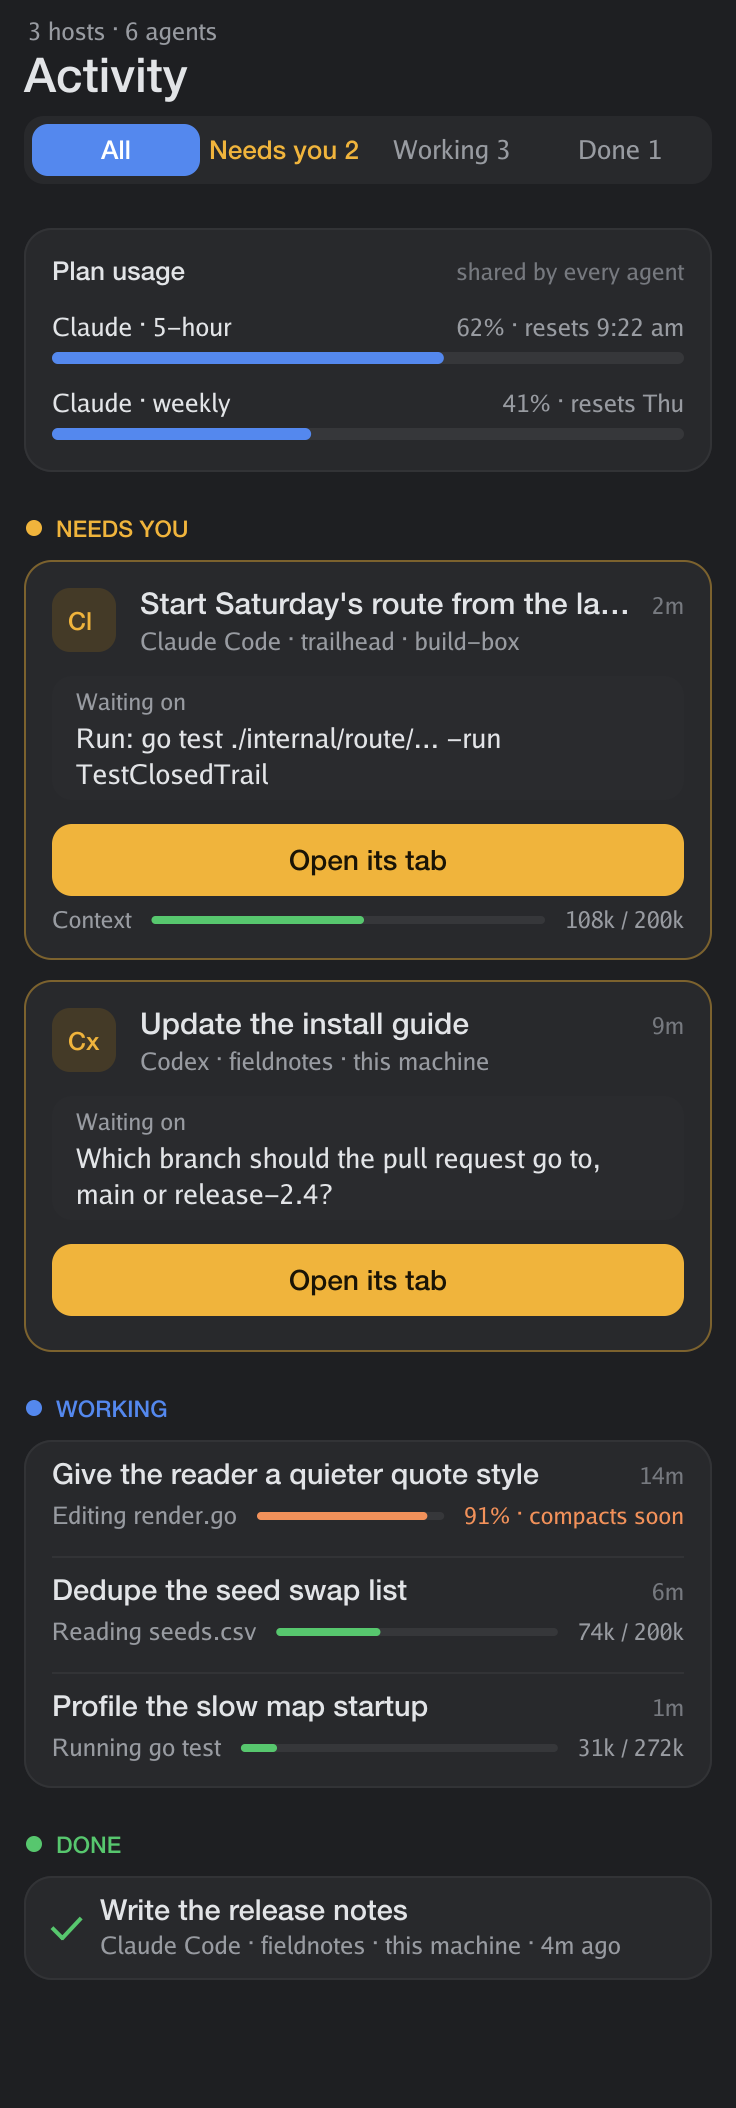
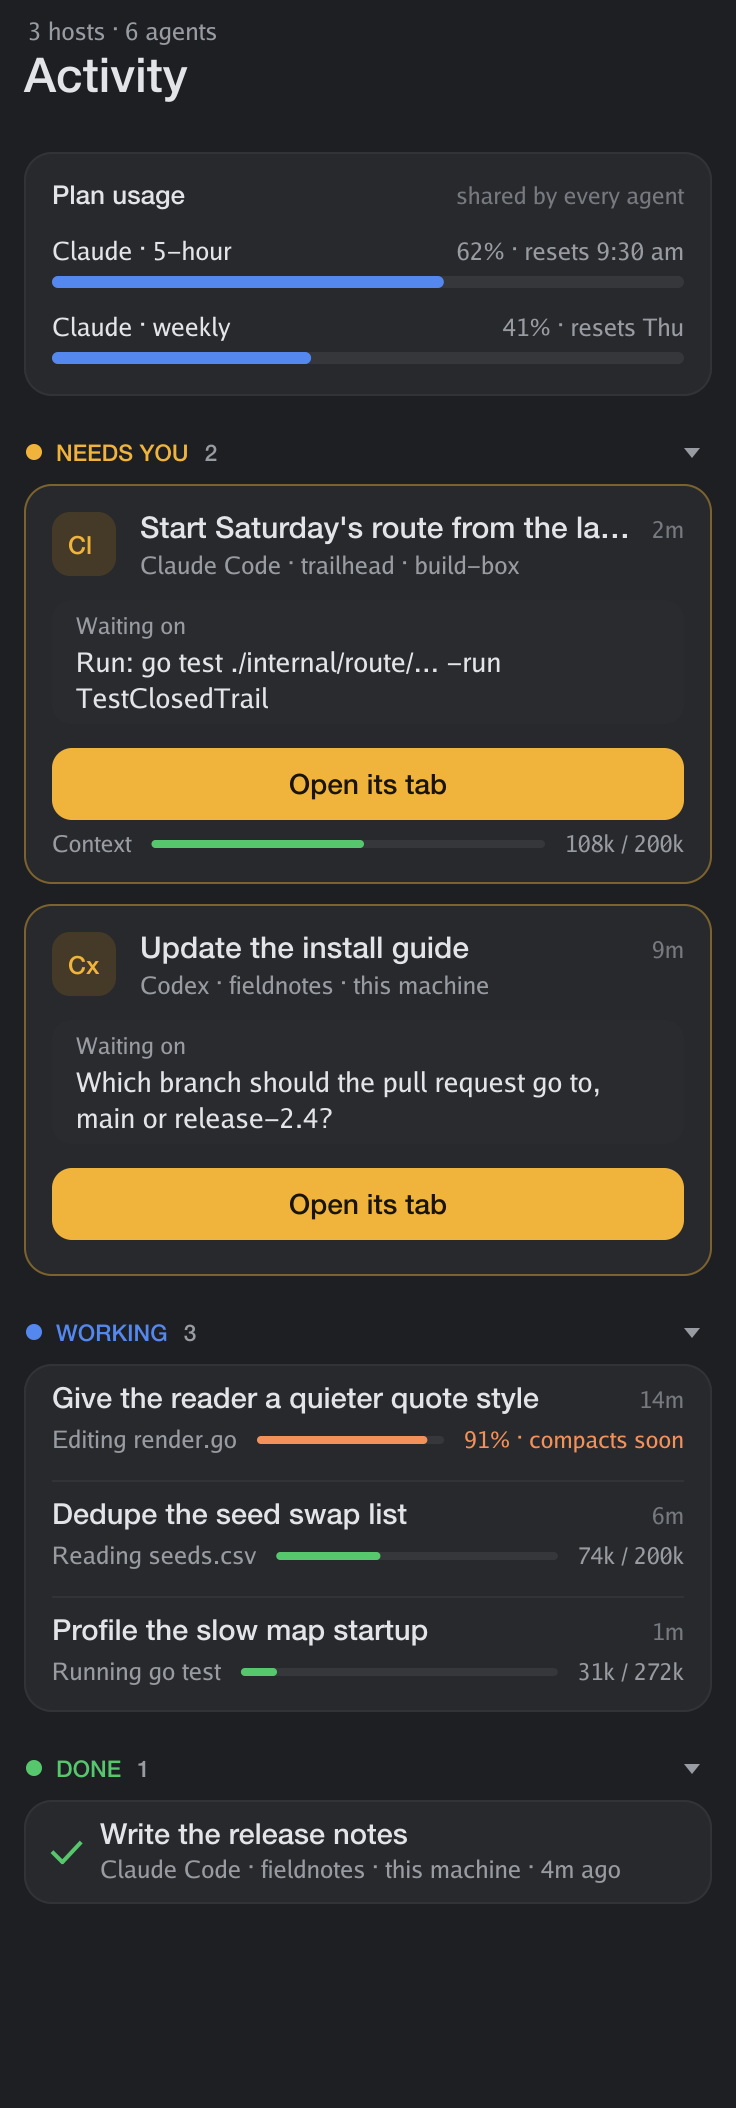
In a narrow pane, the sections take the tabs' place, and fold from their headings
Claude-Session: https://claude.ai/code/session_01VytZudmu48gYaxKF5KDtzx

diff --git a/activity.go b/activity.go
@@ -23,8 +23,7 @@ const (
 	avWide    = 640.0 // from this pane width, two columns
 	avColGap  = 20.0
 	avTabH    = 34.0  // a row of tabs
-	avTabGrid = 420.0 // under this header width, the tabs go two by two
-	avTabList = 260.0 // and under this, one per row
+	avStacked = 420.0 // under this column width the tabs don't read: the sections take their place
 	avPad     = 14.0  // inside a card
 	avGap     = 10.0  // between cards
 	avBtnH    = 36.0
@@ -44,7 +43,7 @@ const (
 // avHit is a place on the pane that does something when clicked.
 type avHit struct {
 	x0, y0, x1, y1 float64
-	action         string // tab:N or open:KEY
+	action         string // tab:N, fold:N or open:KEY
 }
 
 type activityView struct {
@@ -56,6 +55,16 @@ type activityView struct {
 	hits    []avHit
 	msg     string
 	hosts   int // Rex servers with agents on them
+	folded  map[avTab]bool
+	stacked bool // no tabs: the pane's too narrow for them
+}
+
+// shownTab is the tab in effect: all of them when the tabs are hidden.
+func (v *activityView) shownTab() avTab {
+	if v.stacked {
+		return tabAll
+	}
+	return v.tab
 }
 
 func (v *activityView) sections() (needs, working, done []Agent) {
@@ -118,6 +127,13 @@ func runActivity(args []string) error {
 	act := func(action string) {
 		kind, id, _ := strings.Cut(action, ":")
 		switch kind {
+		case "fold":
+			var n int
+			fmt.Sscan(id, &n)
+			if v.folded == nil {
+				v.folded = map[avTab]bool{}
+			}
+			v.folded[avTab(n)] = !v.folded[avTab(n)]
 		case "tab":
 			var n int
 			fmt.Sscan(id, &n)
@@ -225,7 +241,7 @@ func runActivity(args []string) error {
 
 func (v *activityView) drawKey() string {
 	var b strings.Builder
-	fmt.Fprint(&b, v.tab, v.scroll, v.msg, v.hasPlan, v.plan.Updated.Unix())
+	fmt.Fprint(&b, v.tab, v.folded, v.scroll, v.msg, v.hasPlan, v.plan.Updated.Unix())
 	for _, a := range v.agents {
 		fmt.Fprint(&b, a.key(), a.State, a.Msg, a.Title, a.Since.Unix(), a.Ctx.Tokens, ";")
 	}
@@ -317,7 +333,8 @@ type avColumn struct {
 // columns lays the list out for the pane's width: two columns when it's
 // wide and showing everything, else one.
 func (v *activityView) columns(w float64) (cols []avColumn, x0, x1 float64) {
-	if v.tab == tabAll && w >= avWide {
+	tab := v.shownTab()
+	if tab == tabAll && w >= avWide {
 		colW := min((w-32-avColGap)/2, avColMax)
 		x0 = (w - 2*colW - avColGap) / 2
 		x1 = w - x0
@@ -330,7 +347,7 @@ func (v *activityView) columns(w float64) (cols []avColumn, x0, x1 float64) {
 	x0 = (w - colW) / 2
 	x1 = x0 + colW
 	one := avColumn{x0: x0, x1: x1}
-	switch v.tab {
+	switch tab {
 	case tabAll:
 		one.plan, one.needs, one.work, one.fresh = true, true, true, true
 	case tabNeeds:
@@ -343,29 +360,21 @@ func (v *activityView) columns(w float64) (cols []avColumn, x0, x1 float64) {
 	return []avColumn{one}, x0, x1
 }
 
-// tabGrid is how the tabs sit for a header x0..x1 wide: tabs per row, and rows.
-func tabGrid(width float64) (perRow, rows int) {
-	switch {
-	case width < avTabList:
-		return 1, 4
-	case width < avTabGrid:
-		return 2, 2
+// headHeight is the pinned title, and the tabs when they show.
+func (v *activityView) headHeight() float64 {
+	if v.stacked {
+		return 66
 	}
-	return 4, 1
-}
-
-// headHeight is the pinned title and tabs, for a header that wide.
-func headHeight(width float64) float64 {
-	_, rows := tabGrid(width)
-	return 58 + float64(rows)*avTabH + 12
+	return 104
 }
 
 func (v *activityView) draw(r *renderer, img *image.RGBA, w, h float64) {
 	v.hits = v.hits[:0]
 	c := themeColors(r)
 	needs, working, done := v.sections()
+	v.stacked = min(w-24, avColMax) < avStacked
 	cols, x0, x1 := v.columns(w)
-	avHeadH := headHeight(x1 - x0)
+	avHeadH := v.headHeight()
 
 	// The list, scrolled, under the pinned header.
 	tallest := 0.0
@@ -404,9 +413,11 @@ func (v *activityView) drawHeader(p avPaint, c avColors, nNeeds, nWorking, nDone
 	p.text(sub, x0+2, 20, 12, false, r.pal.gray, 0)
 	p.text("Activity", x0, 46, 24, true, r.pal.text, 0)
 
-	perRow, nRows := tabGrid(x1 - x0)
-	ty0 := 58.0
-	p.box(x0, ty0, x1, ty0+float64(nRows)*avTabH+(float64(nRows)-1)*2, 10, c.card)
+	if v.stacked {
+		return
+	}
+	ty0, ty1 := 58.0, 58.0+avTabH
+	p.box(x0, ty0, x1, ty1, 10, c.card)
 	tabs := []struct {
 		label string
 		n     int
@@ -417,27 +428,20 @@ func (v *activityView) drawHeader(p avPaint, c avColors, nNeeds, nWorking, nDone
 		{"Working", nWorking, c.work},
 		{"Done", nDone, c.work},
 	}
-	tw := (x1 - x0 - 8) / float64(perRow)
+	tw := (x1 - x0 - 8) / float64(len(tabs))
 	for i, t := range tabs {
-		row, colN := i/perRow, i%perRow
-		bx0 := x0 + 4 + float64(colN)*tw
+		bx0 := x0 + 4 + float64(i)*tw
 		bx1 := bx0 + tw
-		by0 := ty0 + float64(row)*(avTabH+2)
-		by1 := by0 + avTabH
 		label := t.label
 		if i > 0 && t.n > 0 {
 			label = fmt.Sprintf("%s %d", t.label, t.n)
-		}
-		size := 13.0
-		if tw < 84 {
-			size = 11.5
 		}
 		sel := avTab(i) == v.tab
 		hot := i == int(tabNeeds) && t.n > 0
 		col := r.pal.gray
 		switch {
 		case sel:
-			p.box(bx0, by0+4, bx1, by1-4, 8, t.fill)
+			p.box(bx0, ty0+4, bx1, ty1-4, 8, t.fill)
 			col = rgb(255, 255, 255)
 			if i == int(tabNeeds) {
 				col = c.needsInk
@@ -446,9 +450,9 @@ func (v *activityView) drawHeader(p avPaint, c avColors, nNeeds, nWorking, nDone
 			col = c.needs
 		}
 		bold := sel || hot
-		lw := r.width(r.fit(r.clean(label, bold), size, bold, tw-8), size, bold)
-		p.text(label, (bx0+bx1)/2-lw/2, (by0+by1)/2+size*0.36, size, bold, col, tw-8)
-		v.hits = append(v.hits, avHit{bx0, by0, bx1, by1, fmt.Sprintf("tab:%d", i)})
+		lw := r.width(r.fit(r.clean(label, bold), 13, bold, tw-8), 13, bold)
+		p.text(label, (bx0+bx1)/2-lw/2, (ty0+ty1)/2+4.7, 13, bold, col, tw-8)
+		v.hits = append(v.hits, avHit{bx0, ty0, bx1, ty1, fmt.Sprintf("tab:%d", i)})
 	}
 }
 
@@ -464,8 +468,11 @@ func (v *activityView) drawColumn(p avPaint, c avColors, col avColumn, needs, wo
 	shown := false
 	if col.needs && (len(needs) > 0 || split) {
 		shown = true
-		y = v.section(p, "NEEDS YOU", c.needs, x0, y)
-		if len(needs) == 0 {
+		var folded bool
+		y, folded = v.section(p, tabNeeds, "NEEDS YOU", len(needs), c.needs, x0, x1, y)
+		if folded {
+			needs = nil
+		} else if len(needs) == 0 {
 			p.box(x0, y, x1, y+52, avRadius, c.card)
 			p.text("Nothing needs you right now", x0+avPad, y+31, 13.5, false, r.pal.gray, x1-x0-2*avPad)
 			y += 52 + avGap
@@ -477,13 +484,17 @@ func (v *activityView) drawColumn(p avPaint, c avColors, col avColumn, needs, wo
 	}
 	if col.work && len(working) > 0 {
 		shown = true
-		y = v.section(p, "WORKING", c.work, x0, y)
-		y = v.rows(p, c, working, x0, x1, y, false) + 18
+		var folded bool
+		if y, folded = v.section(p, tabWorking, "WORKING", len(working), c.work, x0, x1, y); !folded {
+			y = v.rows(p, c, working, x0, x1, y, false) + 18
+		}
 	}
 	if col.fresh && len(done) > 0 {
 		shown = true
-		y = v.section(p, "DONE", c.good, x0, y)
-		y = v.rows(p, c, done, x0, x1, y, true) + 18
+		var folded bool
+		if y, folded = v.section(p, tabDone, "DONE", len(done), c.good, x0, x1, y); !folded {
+			y = v.rows(p, c, done, x0, x1, y, true) + 18
+		}
 	}
 	if !shown && !(col.plan && v.hasPlan) {
 		msg := map[avTab]string{
@@ -491,10 +502,10 @@ func (v *activityView) drawColumn(p avPaint, c avColors, col avColumn, needs, wo
 			tabNeeds:   "Nothing needs you",
 			tabWorking: "Nothing working",
 			tabDone:    "Nothing finished yet",
-		}[v.tab]
+		}[v.shownTab()]
 		y += 30
 		p.text(msg, x0+2, y, 15, true, r.pal.gray, 0)
-		if v.tab == tabAll {
+		if v.shownTab() == tabAll {
 			y += 22
 			p.text("Start Claude Code or Codex in a Rex pane and it shows up here.", x0+2, y, 12.5, false, r.pal.faint, x1-x0)
 		}
@@ -503,10 +514,32 @@ func (v *activityView) drawColumn(p avPaint, c avColors, col avColumn, needs, wo
 	return y - start
 }
 
-func (v *activityView) section(p avPaint, label string, col color.RGBA, x0, y float64) float64 {
+// section draws a section's heading, which folds it away or opens it
+// again, and reports whether it's folded.
+func (v *activityView) section(p avPaint, which avTab, label string, n int, col color.RGBA, x0, x1, y float64) (float64, bool) {
+	r := p.r
+	folded := v.folded[which]
 	p.dot(x0+5, y+10, 4, col)
-	p.text(label, x0+16, y+14.5, 11.5, true, col, 0)
-	return y + 26
+	lw := p.text(label, x0+16, y+14.5, 11.5, true, col, 0)
+	if n > 0 {
+		p.text(fmt.Sprint(n), x0+16+lw+8, y+14.5, 11.5, true, r.pal.gray, 0)
+	}
+	// A chevron: pointing down while open, right while folded.
+	if p.on() {
+		cx, cy := x1-10, y+10
+		pts := [][2]float64{{cx - 4, cy - 2}, {cx + 4, cy - 2}, {cx, cy + 3}}
+		if folded {
+			pts = [][2]float64{{cx - 2, cy - 4}, {cx + 3, cy}, {cx - 2, cy + 4}}
+		}
+		pb := r.path(p.img)
+		pb.poly(pts)
+		pb.fill(r.pal.gray)
+		v.hits = append(v.hits, avHit{x0, y - 6, x1, y + 30, fmt.Sprintf("fold:%d", which)})
+	}
+	if folded {
+		return y + 34, true
+	}
+	return y + 26, false
 }
 
 func (v *activityView) drawPlan(p avPaint, c avColors, x0, x1, y float64) float64 {

diff --git a/README.md b/README.md
@@ -31,6 +31,8 @@ Or run `rex-activity` in any pane.
 
 - **Click** a card, or a row, to jump to that agent's pane.
 - **Click a tab** to show only what needs you, what's working, or what's done. Click it again for all. **1** to **4** do the same.
+- **Click a section's heading** (Needs you, Working, Done) to fold it away, and again to open it.
+- **In a narrow pane** the tabs would stop being readable, so they go away and the sections stack with their counts. You fold them from their headings instead.
 - **Scroll** with the wheel, or **j** and **k**. The title and tabs stay pinned.
 - **q** or **Esc** closes it.
 
